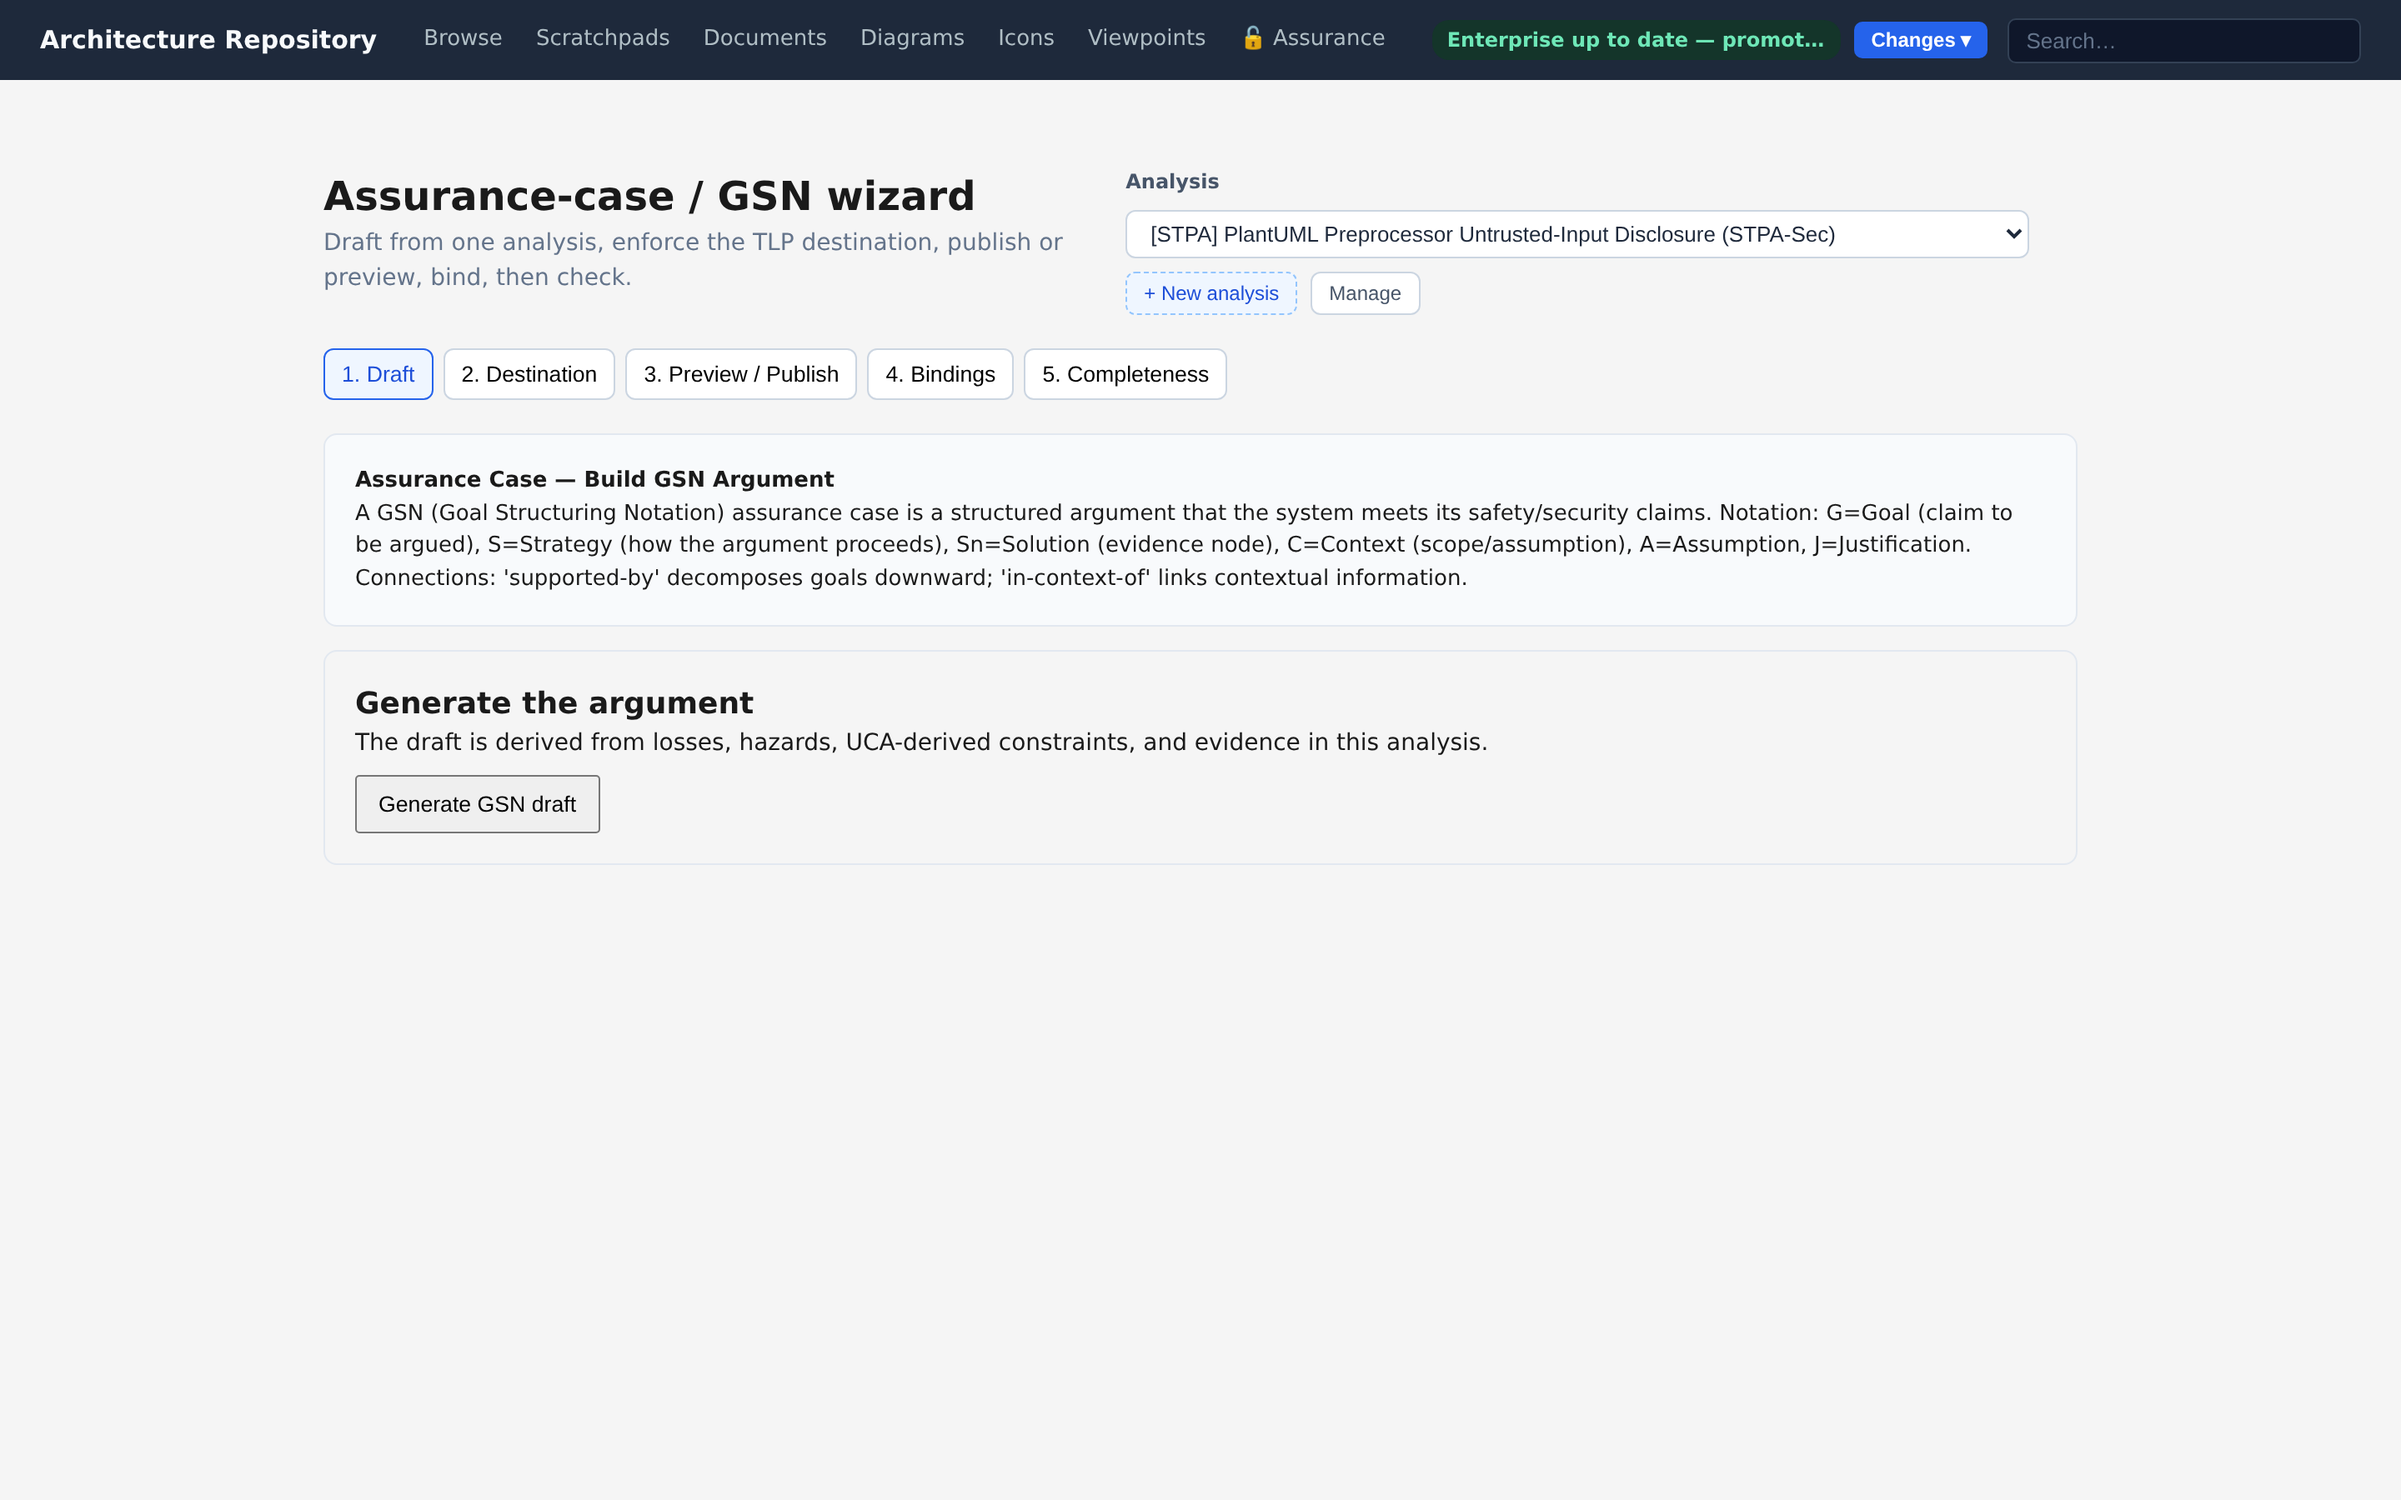
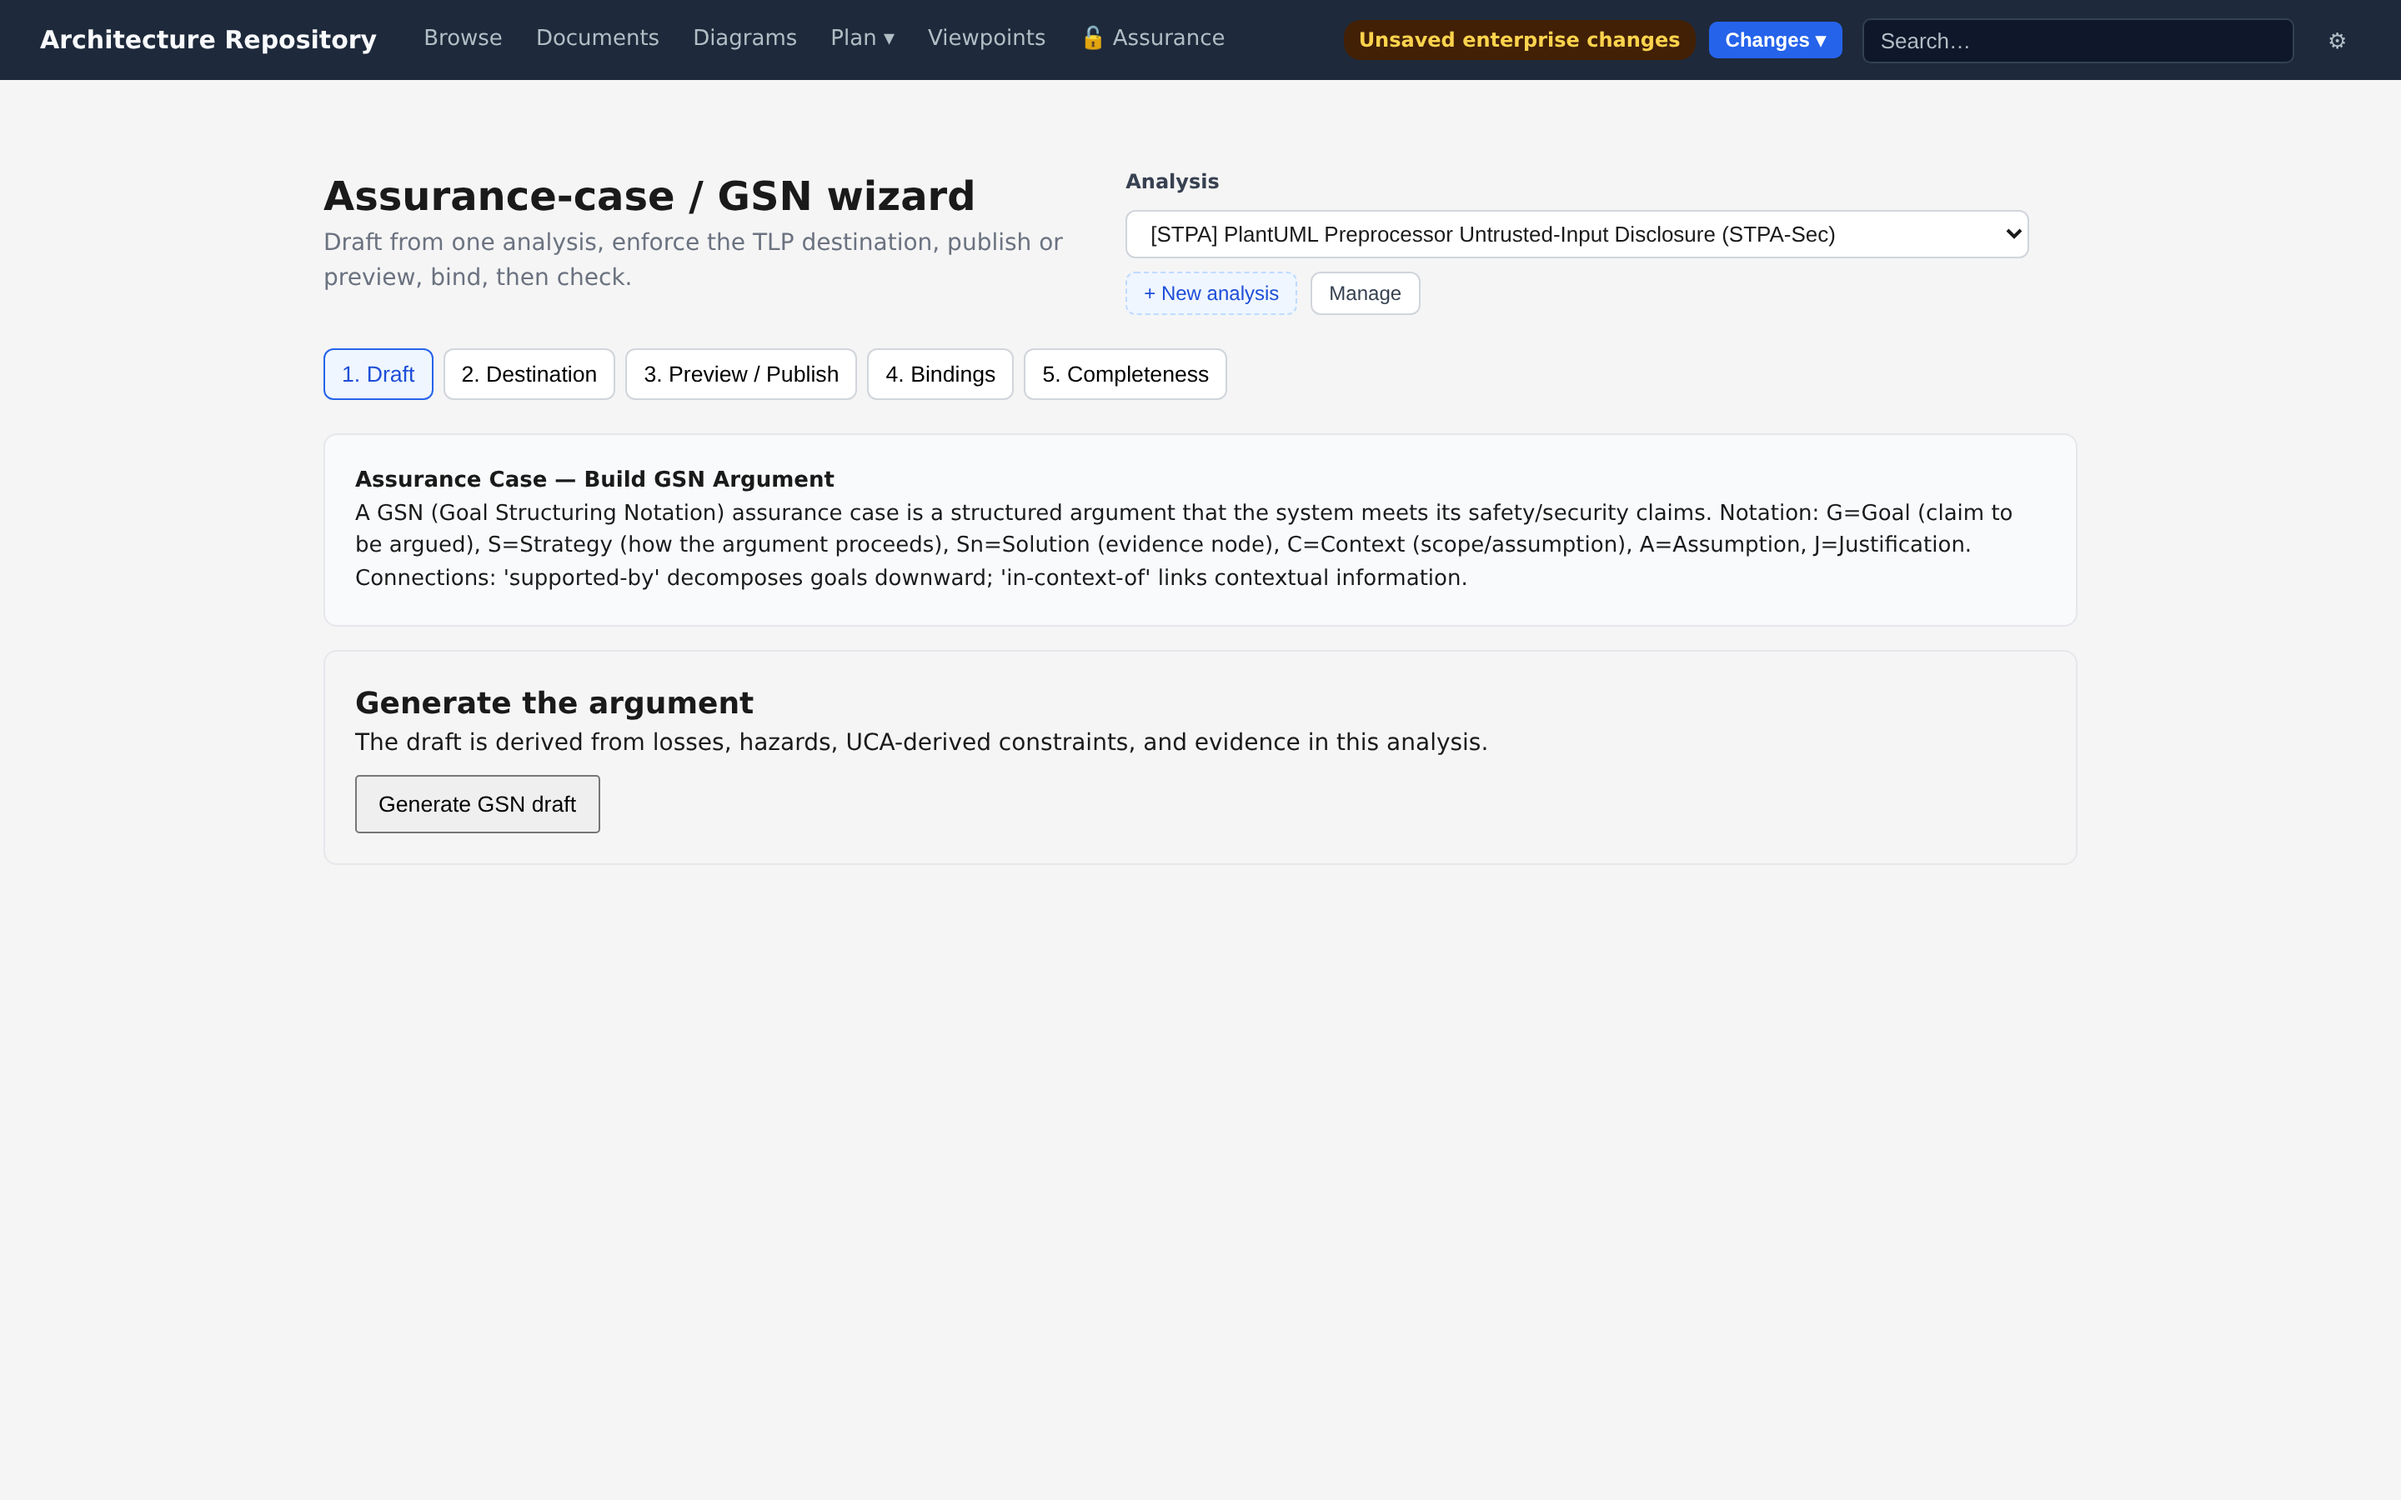
Docs: add the canvas, candidate and stress-analysis figures; re-shoot the set
Nine new figures replace the screenshot TODOs in editing-diagrams,
diagramming, candidate-architectures, stress-analysis and the README
(edit mode, the drag with guides and change list, the Reading panel, a
candidate's page, the Integrate card, and four of the stress-analysis
workspace).

Every existing screenshot is re-shot because the header changed: Plan
menu, settings button, no Scratchpads/Icons entries. The rendered-diagram
figures came back byte-identical and are unchanged. Shot as the whole set:
46 passed, 1 skipped (the scratchpad hero needs HERO_SCRATCHPAD); the
manifest is complete.

Changed region(s): [[0.2188, 0.0, 0.8438, 0.0622]]

diff --git a/docs/03-modeling/stress-analysis.md b/docs/03-modeling/stress-analysis.md
@@ -49,8 +49,7 @@ too). The start page asks for three things:
 **Start and sketch the naive architecture** writes the analysis document and the naive candidate in
 one write and opens the workspace on the naive architecture's canvas.
 
-<!-- TODO screenshot: the start page with Name, Context and "The architecture under evaluation"
-     filled in. Suggested name: docs/media/stress-start.png -->
+![The start page of a stress analysis with Name, Context and The architecture under evaluation filled in](../media/stress-start.png)
 
 ### 2. Define the naive architecture on its canvas
 
@@ -68,9 +67,7 @@ The naive architecture starts empty. Its canvas needs no stored diagram:
 Changes are saved to the candidate as you sketch, and nothing reaches the model before the naive
 architecture is applied. Select **Done sketching · on to Stressors** when it is complete.
 
-<!-- TODO screenshot: the workspace sketching the naive architecture — the tabs and operations list
-     on the left, the canvas with the three placed elements and the created Promotion Queue on the
-     right. Suggested name: docs/media/stress-naive-canvas.png -->
+![The workspace sketching the naive architecture: the tabs and its operations on the left, and on the right the canvas with Repository Promotion Service, Artifact Index Store, Git Sync Service and the newly created Promotion Queue](../media/stress-naive-canvas.png)
 
 ### 3. Write stressors
 
@@ -151,9 +148,7 @@ integration**.
 Each architecture's line then shows its residuality, for example
 `Queued promotions  Residuality +0.33 · survives 3 of 6 (naive 2)`.
 
-<!-- TODO screenshot: the test-set section after judging — the progress line, the naive line and an
-     adaptation's residuality line, with the judging walk open on one stressor.
-     Suggested name: docs/media/stress-test-set.png -->
+![The test set after judging: the procedure line, the naive architecture surviving 1 of 3, Queued promotions at residuality +0.33, and the judging walk open on one test stressor](../media/stress-test-set.png)
 
 &nbsp;
 

diff --git a/README.md b/README.md
@@ -153,8 +153,8 @@ automatic layout, and elements snap to a grid and to their neighbours. A right-c
 element in place and a drag from an element's edge draws a relation. Save writes them with the
 arrangement in one write, or writes nothing.
 
-<!-- TODO screenshot: edit mode on an ArchiMate diagram with alignment guides showing during a drag
-     and the change list open. Suggested name: docs/media/diagram-edit-mode.png -->
+<!-- media: docs/media/diagram-edit-guides.png -->
+![An element dragged on the edit canvas with a dashed alignment guide showing, and the list of what Save will write open above it](docs/media/diagram-edit-guides.png)
 
 A **candidate architecture** proposes a change without making it. Sketch *Cached index store* on
 its canvas, adding an *Index Read Cache* and renaming the *Artifact Index Store*, and its page lists
@@ -166,8 +166,8 @@ naive architecture, answers the end states they lead to with adapted candidates,
 adapted architecture on stressors held out from the design work:
 `Residuality +0.33 · survives 3 of 6 (naive 2)`.
 
-<!-- TODO screenshot: the stress-analysis workspace — Stressors tab with the Perspectives line and
-     the incidence grid beside the canvas. Suggested name: docs/media/stress-workspace.png -->
+<!-- media: docs/media/stress-workspace.png -->
+![The Stressors tab of a stress analysis with the Perspectives line under the input, the incidence grid of the stressor in focus, and the elements it hits marked on the canvas beside it](docs/media/stress-workspace.png)
 
 More walkthroughs — graph exploration, diagram authoring, promotion, and assurance — are in
 the [documentation](docs/index.md).

diff --git a/docs/03-modeling/candidate-architectures.md b/docs/03-modeling/candidate-architectures.md
@@ -42,9 +42,7 @@ When the model has moved under an operation since it was recorded, the page says
 offers **Re-base**, which records each drifted operation again against the model as it now stands,
 keeping what it asks for.
 
-<!-- TODO screenshot: a candidate's page — operations table with standing on the left, the candidate
-     drawn on its own picture with "+" and "~" marks on the right, header buttons visible.
-     Suggested name: docs/media/candidate-page.png -->
+![The page of the candidate Cached index store: its three operations with their standing on the left, and its picture on the right with the renamed Artifact Index Store marked as changed](../media/candidate-page.png)
 
 ### Stack one candidate on another
 
@@ -90,9 +88,7 @@ Promotion Service*, with **Take back**. Once *No conflict stands*, name the inte
 Integrating compares what the candidates change. It says nothing about how the result behaves; a
 [stress analysis's test set](stress-test-set.md) judges that.
 
-<!-- TODO screenshot: the comparison page with the Integrate card open on one conflict ("Both change
-     the name of Repository Promotion Service"), the two parties and their actions.
-     Suggested name: docs/media/candidate-integrate.png -->
+![The Integrate card on the comparison of Queued promotion and Batched promotion: one conflict, both change the name of Repository Promotion Service, with Take this side and Drop this change for each party, a merged value and Raise a decision](../media/candidate-integrate.png)
 
 ### Apply a candidate
 

diff --git a/docs/03-modeling/diagramming.md b/docs/03-modeling/diagramming.md
@@ -298,9 +298,7 @@ nearest element in that direction, `Enter` selects and `Shift`+`Enter` adds to t
 diagram larger than the window, an overview in the corner shows where the window is; press or drag
 on it to move there. The full key list is in the [Diagram canvas reference](../reference/diagram-canvas.md#view-mode).
 
-<!-- TODO screenshot: view mode with the Reading panel open — one element selected, Incoming and
-     Outgoing at "1 step", the reach lit and the rest faded, the overview visible in the corner.
-     Suggested name: docs/media/diagram-reading.png -->
+![The Reading panel open on Enterprise Repository with Incoming and Outgoing at 1 step: the elements it reaches are lit, the rest of the diagram is faded, and the overview shows the window in the corner](../media/diagram-reading.png)
 
 Assurance diagrams (bowtie, control structure, UCA matrix) have the same selection UX inside
 their own assurance viewer — see [Assurance diagrams](../04-assurance/diagrams.md).

diff --git a/docs/03-modeling/editing-diagrams.md b/docs/03-modeling/editing-diagrams.md
@@ -27,9 +27,7 @@ unsaved changes asks the same question, and **Discard** asks before it throws ch
 Nothing reaches the repository before **Save**. Until then every change is a step in the session's
 undo history.
 
-<!-- TODO screenshot: edit mode on "One Enterprise Repository, Many Engagements" — the edit bar
-     ("Automatic layout", Undo, Redo, Check layout, change count, Discard, Save) above the canvas,
-     the sidebar open on "Search the model". Suggested name: docs/media/diagram-edit-mode.png -->
+![Edit mode on the diagram One Enterprise Repository, Many Engagements: the edit bar with Automatic layout, Undo, Redo, Check layout, No changes, Discard and Save above the canvas, and the sidebar open on Search the model](../media/diagram-edit-mode.png)
 
 &nbsp;
 
